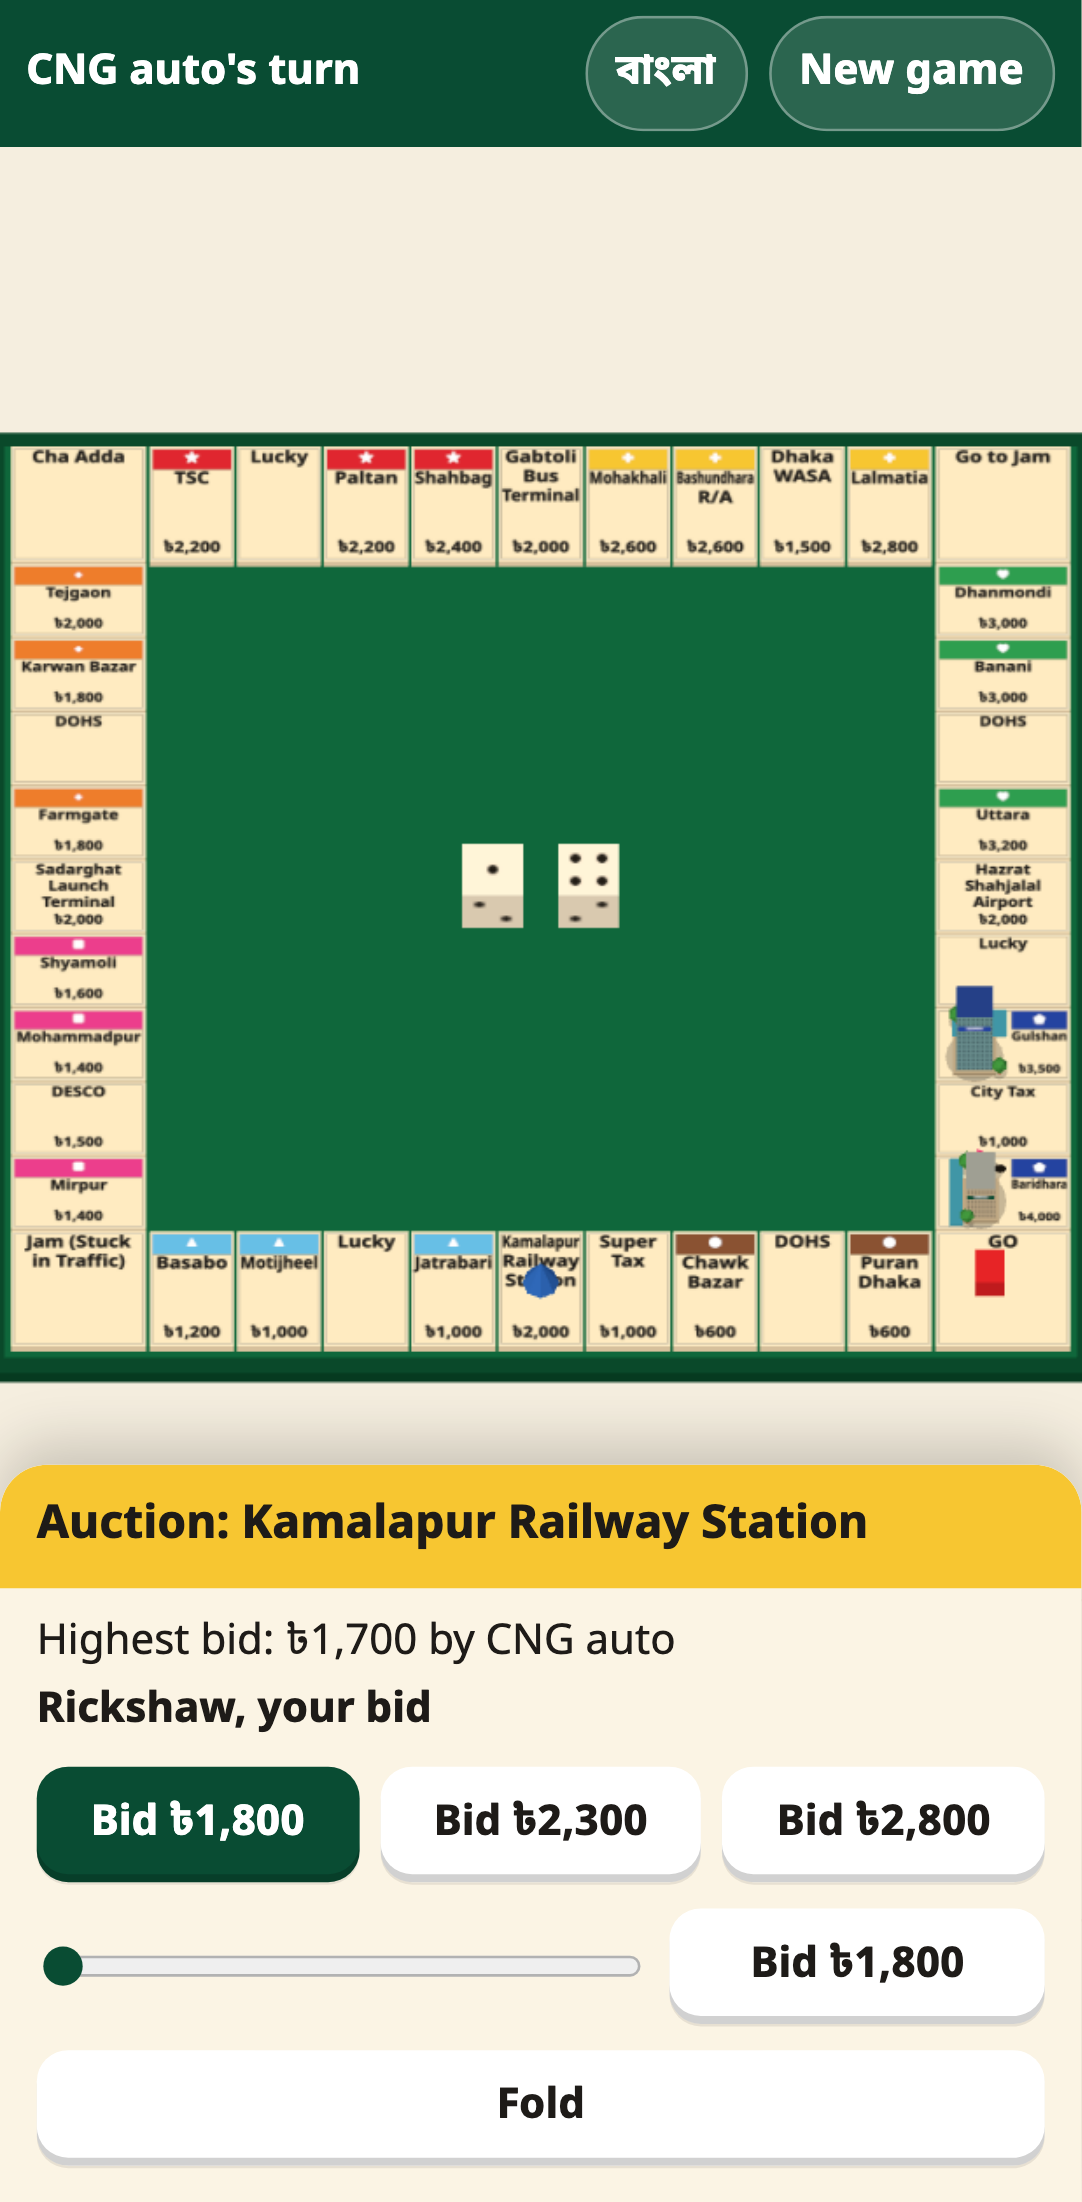
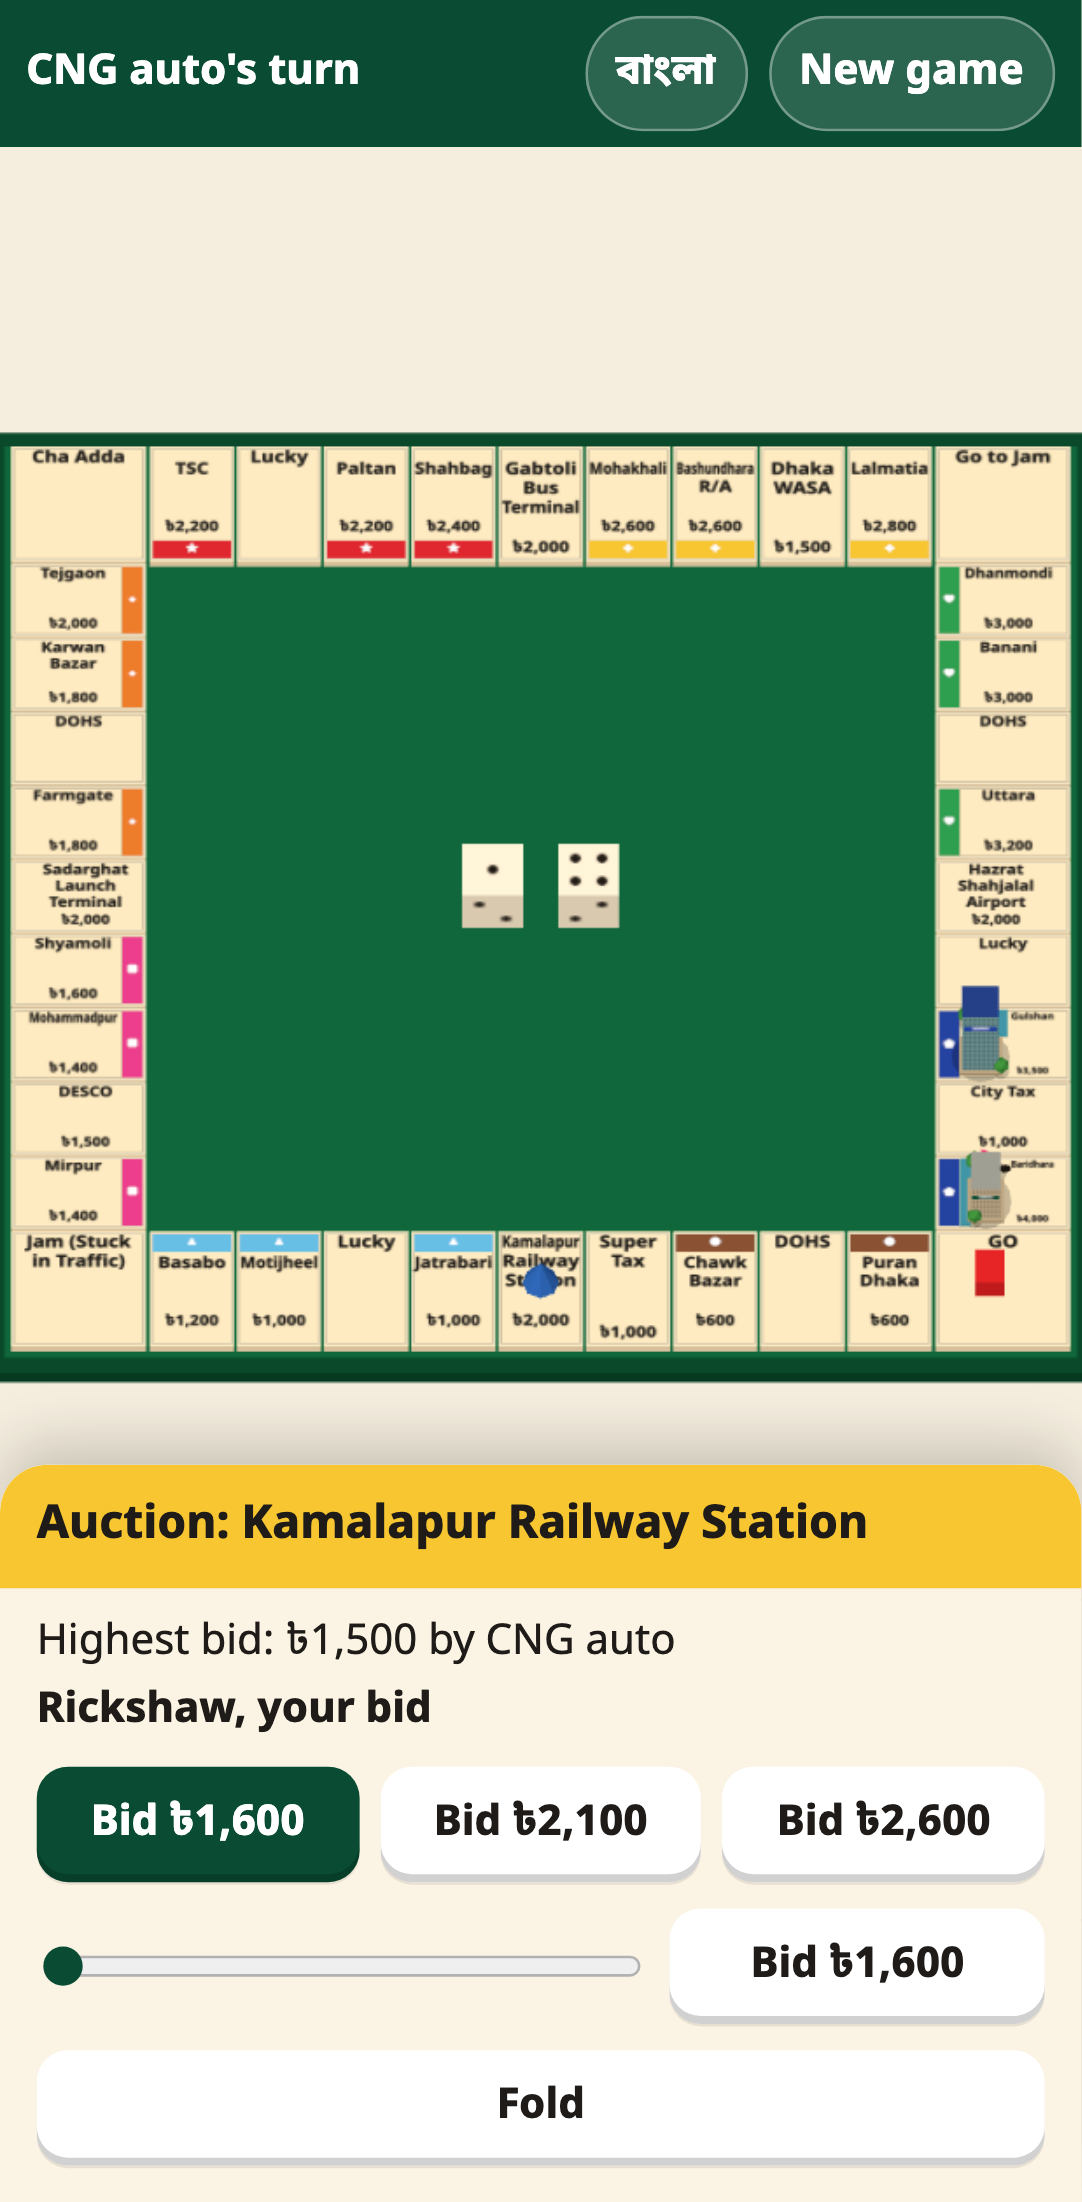
S5 FR-01: set color bands face the board centre, houses stand on them (D-77); tabletop chosen (D-76)
Text keeps clear of the owner band on the outer edge. Playwright moved to port 5182 so it can
run while the phone server uses 5181. Screenshots refreshed.

diff --git a/src/scene/board.ts b/src/scene/board.ts
@@ -175,27 +175,43 @@ export class BoardScene {
     g.lineWidth = 4;
     g.strokeRect(2, 2, c.width - 4, c.height - 4);
     // Region for text, in canvas pixels. Canvas top is the far side (away from the camera).
+    // Text region, in canvas pixels. Canvas top is the far side (away from the camera).
     let rx = 0, ry = 0, rw = c.width, rh = c.height;
-    if (this.dressed.has(t.id)) {
-      const share = this.cfg.dressing.textShare;
-      const ix = p.inward.x, iz = p.inward.y;
-      if (iz < -0.5) { rh = c.height * share; ry = c.height - rh; } // bottom row: outer is the bottom
-      else if (iz > 0.5) { rh = c.height * share; } // top row: outer is the top
-      else if (ix > 0.5) { rw = c.width * share; } // left column: outer is the left
-      else { rw = c.width * share; rx = c.width - rw; } // right column: outer is the right
-    }
-    let top = ry + 8;
+    const ix = p.inward.x, iz = p.inward.y;
     if (t.group) {
-      const bandH = Math.min(rh * 0.26, 46);
+      // The set color band sits on the edge facing the board centre (D-77): top for the bottom
+      // row, bottom for the top row, right for the left column, left for the right column.
+      const band = Math.round(this.cfg.dressing.houseLane * scale);
+      let bx = 0, by = 0, bw = c.width, bh = c.height;
+      if (iz < -0.5) { bh = band; ry = band; rh = c.height - band; }
+      else if (iz > 0.5) { by = c.height - band; bh = band; rh = c.height - band; }
+      else if (ix > 0.5) { bx = c.width - band; bw = band; rw = c.width - band; }
+      else { bw = band; rx = band; rw = c.width - band; }
       g.fillStyle = colors.groups[t.group] ?? '#888';
-      g.fillRect(rx + 4, ry + 4, rw - 8, bandH);
+      g.fillRect(bx + 4, by + 4, bw - 8, bh - 8);
       g.fillStyle = '#ffffff';
-      g.font = `700 ${Math.round(bandH * 0.62)}px ${txt.font}`;
+      g.font = `700 ${Math.round(Math.min(bw, bh) * 0.5)}px ${txt.font}`;
       g.textAlign = 'center';
       g.textBaseline = 'middle';
-      g.fillText(this.cfg.groupSymbols[t.group] ?? '', rx + rw / 2, ry + 4 + bandH / 2);
-      top = ry + bandH + 10;
+      g.fillText(this.cfg.groupSymbols[t.group] ?? '', bx + bw / 2, by + bh / 2);
     }
+    if (this.dressed.has(t.id)) {
+      // On a dressed tile the text keeps to the outer part; the landmark fills the middle.
+      const share = this.cfg.dressing.textShare;
+      if (iz < -0.5) { rh = c.height * share; ry = c.height - rh; }
+      else if (iz > 0.5) { rh = c.height * share; ry = 0; }
+      else if (ix > 0.5) { rw = c.width * share; rx = 0; }
+      else { rw = c.width * share; rx = c.width - rw; }
+    }
+    if (t.type === 'property' || t.type === 'hub' || t.type === 'utility') {
+      // Keep text clear of the owner band on the outer edge (plan 3.6).
+      const pad = Math.round(0.17 * scale);
+      if (iz < -0.5) rh -= pad;
+      else if (iz > 0.5) { ry += pad; rh -= pad; }
+      else if (ix > 0.5) { rx += pad; rw -= pad; }
+      else rw -= pad;
+    }
+    const top = ry + 8;
     g.fillStyle = colors.tileText;
     g.textAlign = 'center';
     g.textBaseline = 'top';
@@ -333,7 +349,7 @@ export class BoardScene {
     const count = hotel ? 1 : houses;
     // On a dressed tile, houses stand in a row between the text and the landmark (style guide 4).
     const lane = this.cfg.dressing.houseLane;
-    const b = this.dressed.has(t.id) ? f.depth / 2 - lane / 2 : f.depth / 2 - 0.25;
+    const b = f.depth / 2 - lane / 2; // on the color band at the inner edge (D-77)
     for (let k = 0; k < count; k++) {
       const a = hotel ? 0 : (k - (count - 1) / 2) * 0.21;
       if (hotel) {

diff --git a/src/scene/config.ts b/src/scene/config.ts
@@ -30,8 +30,8 @@ export interface SceneConfig {
   };
   lighting: { skyColor: string; groundColor: string; hemiIntensity: number; sunColor: string; sunIntensity: number; sunPosition: [number, number, number]; shadowOpacity: number };
   // Share of a dressed tile's depth kept for its text (outer side); buildings use the rest.
-  // houseLane: depth at the tile's inner edge (by the board centre) where houses stand, so they
-  // never cover text or the landmark.
+  // houseLane: depth of the color band at a property's inner edge (facing the board centre).
+  // Houses and hotels stand on it, so they never cover text or the landmark.
   dressing: { textShare: number; maxHeight: number; houseLane: number };
   groupSymbols: Record<string, string>;
 }

diff --git a/playwright.config.ts b/playwright.config.ts
@@ -1,13 +1,14 @@
 import { defineConfig, devices } from '@playwright/test';
 
-// End to end tests run against the production preview build.
+// End to end tests run against the production preview build, on port 5182 so they can run
+// while `npm run phone` serves port 5181.
 export default defineConfig({
   testDir: 'tests/e2e',
   reporter: 'list',
-  use: { baseURL: 'http://127.0.0.1:5181' },
+  use: { baseURL: 'http://127.0.0.1:5182' },
   webServer: {
-    command: 'npm run build && npm run preview',
-    url: 'http://127.0.0.1:5181',
+    command: 'npm run build && npx vite preview --host 127.0.0.1 --port 5182 --strictPort',
+    url: 'http://127.0.0.1:5182',
     reuseExistingServer: false,
     timeout: 120_000,
   },

diff --git a/docs/style-guide.md b/docs/style-guide.md
@@ -1,6 +1,6 @@
 # Babsha style guide
 
-Status: S5 draft for owner confirmation. Sources: plan 3.6 to 3.10, the owner's references in docs/reference (D-71), and the owner's choice of the tilted 3D city (D-70). All art is made in code (CLAUDE.md): low-poly geometry, canvas textures, no image files, no image generation.
+Status: S5. Camera chosen (D-76); set bands per owner feedback (D-77); style awaiting final owner confirmation. Sources: plan 3.6 to 3.10, the owner's references in docs/reference (D-71), and the owner's choice of the tilted 3D city (D-70). All art is made in code (CLAUDE.md): low-poly geometry, canvas textures, no image files, no image generation.
 
 ## 1. What the look is
 
@@ -68,10 +68,11 @@ Avoid: saffron-heavy schemes and orange-white-green tricolor groupings (plan 3.7
 
 World units: one side tile is 1 wide and 1.6 deep, corners 1.6 square, board 12.2 square.
 
-- **Tile face**: paper with a 2 px paperEdge border drawn in the texture. Set color strip with its symbol. Name and price in ink.
-- **Tile layout when dressed**: the outer 45 percent of the tile depth carries the color strip, name and price; the rest carries the landmark, and a 0.18-unit lane at the inner edge (by the board centre) holds houses and hotels. Text never sits under a building or a house.
+- **Tile face**: paper with a 2 px paperEdge border drawn in the texture. Name and price in ink, upright for the fixed camera (D-67), kept clear of the owner band on the outer edge.
+- **Set color band**: on the edge facing the board centre, with the set symbol (D-77): top edge on the bottom row, bottom edge on the top row, right edge on the left column, left edge on the right column. 0.3 units deep.
+- **Tile layout when dressed**: the outer 45 percent of the tile depth carries the name and price; the landmark fills the middle; the color band at the inner edge holds houses and hotels. Text never sits under a building or a house.
 - **Buildings**: footprint at most 0.85 by 0.85 units, height at most 1.3 units, so a building hides at most part of the tile behind it (plan risk R2). Ownership is a flat band on the outer edge, readable even when a building overlaps.
-- **Houses and hotels**: white houses with a red roof, 0.15 wide; a terracotta hotel block. On a dressed tile they stand in the house lane at the inner edge.
+- **Houses and hotels**: white houses with a red roof, 0.15 wide; a terracotta hotel block. They stand on the set color band, on every property tile.
 - **Tokens**: about 0.4 units tall, footprint up to 0.45.
 - **Board base**: boardGreen with a boardGreenDark rim.
 
@@ -105,7 +106,7 @@ Review test for each tile: with the name covered, would a Bangladeshi viewer sti
 
 ## 8. Camera
 
-Three presets are compared on the phone in S5 (plan 3.6; the middle one was added so the owner can see the trade-off): tabletop (58 degrees), tilted45 (45 degrees) and the isometric diamond. Values live in data/scene.json; open any page with `?camera=tabletop`, `?camera=tilted45` or `?camera=isometric`. No pan or zoom.
+**Chosen: tabletop (D-76).** Three presets were compared in S5 (plan 3.6; the middle one was added so the owner could see the trade-off): tabletop (58 degrees), tilted45 (45 degrees) and the isometric diamond. Values live in data/scene.json; open any page with `?camera=tabletop`, `?camera=tilted45` or `?camera=isometric`. No pan or zoom.
 
 What the S5 screenshots show (docs/screenshots/s5-*.png, iPhone 13 Pro size):
 

diff --git a/docs/DECISIONS.md b/docs/DECISIONS.md
@@ -81,6 +81,8 @@ Two lists: decisions taken (with who decided and why), and open questions waitin
 | D-73 | 2026-11-08 | S5 adds a third camera preset, tilted45 (45 degrees), between tabletop and isometric, so the owner can judge readability against how 3D the city looks. | Builder | Plan 3.6 asks for at least two presets. |
 | D-74 | 2026-11-08 | Building signs are always Bangla; tile labels follow the language toggle. | Builder | Plan 3.7 (Bangla script on all signage) and FR-15 (tile names in both languages). |
 | D-75 | 2026-11-08 | Small Dhaka anchors (rickshaw, nouka) are drawn about 1.4 times larger than true scale, and houses sit in a lane at the tile's inner edge, so nothing covers tile text. | Builder | S5 screenshots showed houses over names and anchors too small to read at phone scale. |
+| D-76 | 2026-11-08 | S5 camera choice: tabletop (58 degrees, board square to the screen). | Owner | Plan 3.6 and 4.3 S5 check: owner picks the preset. tilted45 and isometric stay in data/scene.json for reference only. |
+| D-77 | 2026-11-08 | Each property's set color band sits on the tile edge facing the board centre: top edge for the bottom row, bottom edge for the top row, right edge for the left column, left edge for the right column. Houses and hotels stand on the band. Tile text stays upright (D-67) and keeps clear of the owner band on the outer edge. | Owner | Owner feedback on the S5 screenshots; matches a printed board. |
 
 ## Open questions
 
